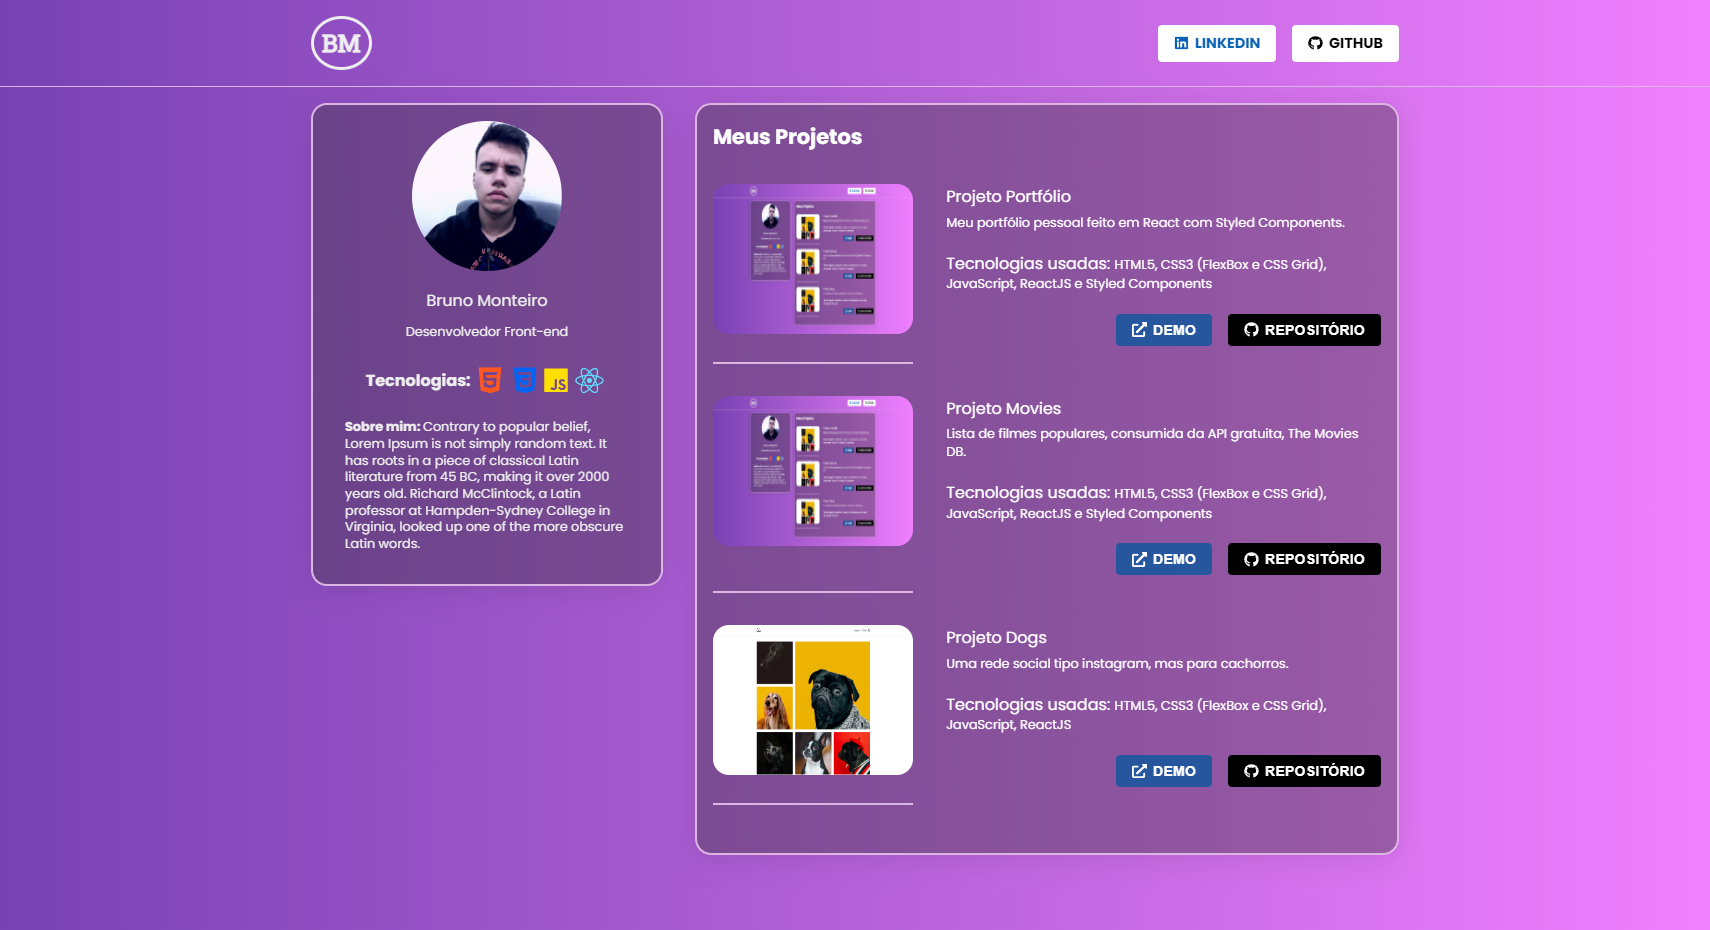
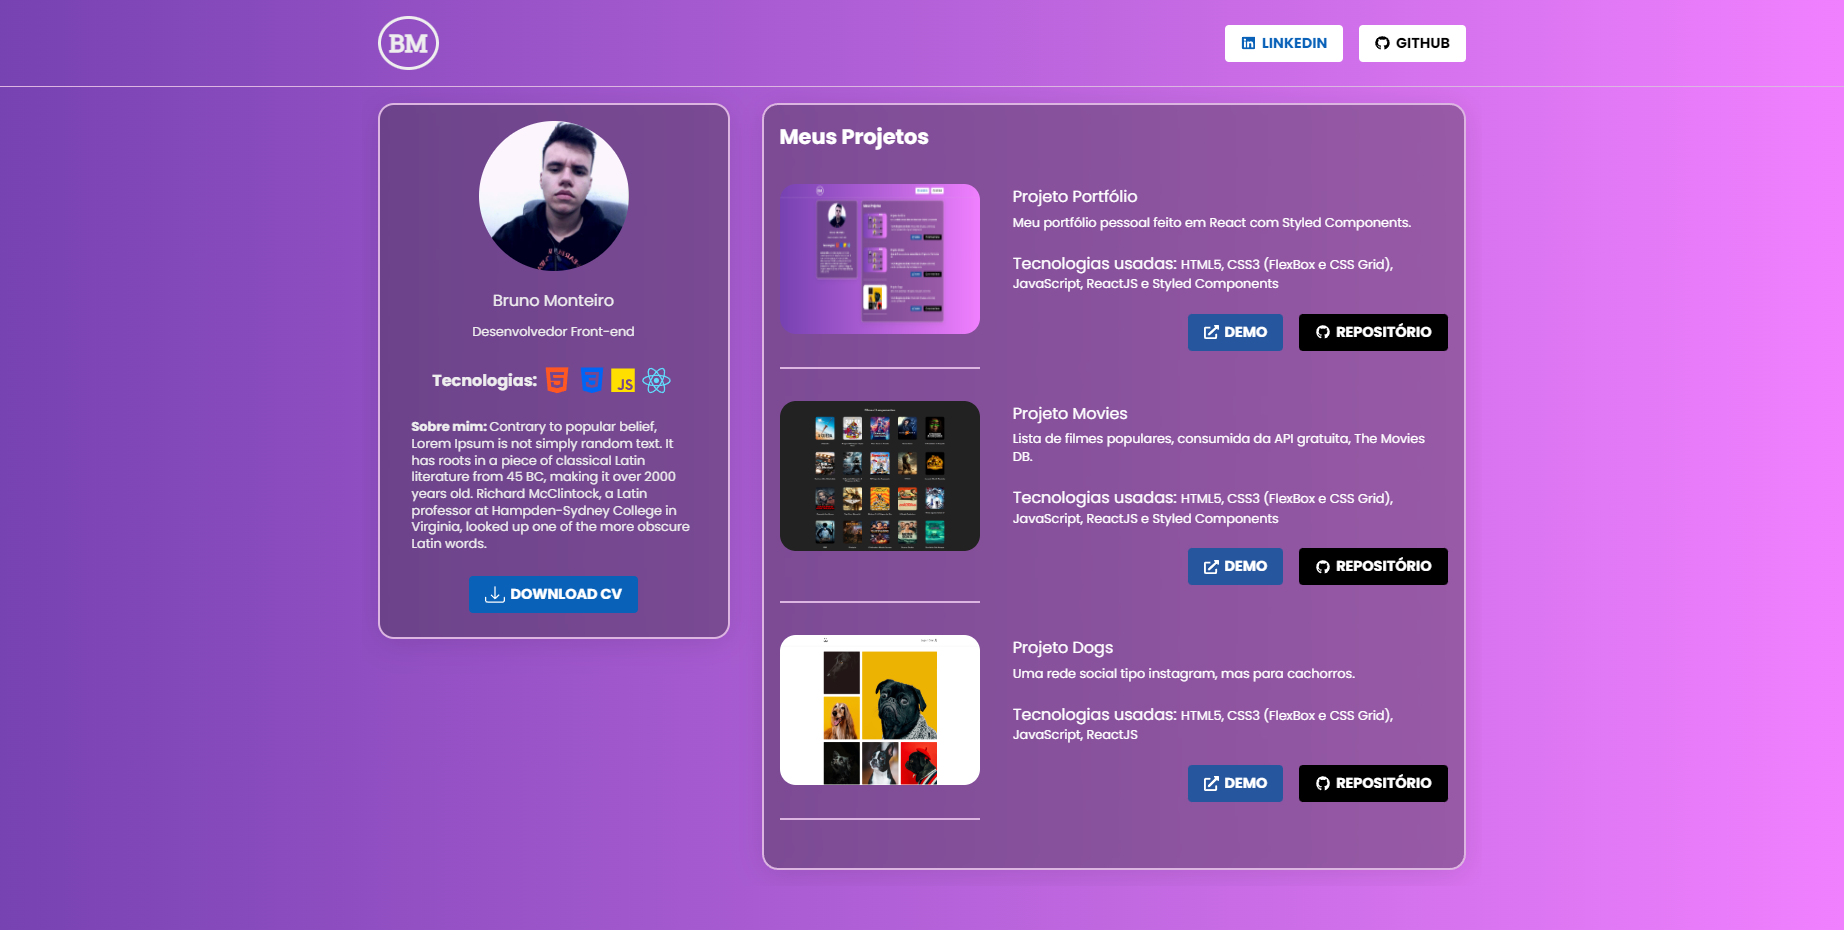
Botão baixar cv

Changed region(s): [[0.155, 0.0, 0.8368, 0.9355], [0.6509, 0.0312, 0.8368, 0.0624]]

diff --git a/src/Components/Projetos/Projetos.js b/src/Components/Projetos/Projetos.js
@@ -26,6 +26,8 @@ const Projetos = () => {
       sobre: 'Meu portfólio pessoal feito em React com Styled Components.',
       tecnologias:
         'HTML5, CSS3 (FlexBox e CSS Grid), JavaScript, ReactJS e Styled Components',
+      botaoDemo: '',
+      botaoGit: 'https://github.com/BrunoMonteiro25/Meu-Portfolio',
     },
     {
       id: 2,
@@ -35,6 +37,8 @@ const Projetos = () => {
         'Lista de filmes populares, consumida da API gratuita, The Movies DB.',
       tecnologias:
         'HTML5, CSS3 (FlexBox e CSS Grid), JavaScript, ReactJS e Styled Components',
+      botaoDemo: '',
+      botaoGit: 'https://github.com/BrunoMonteiro25/api-filmes',
     },
     {
       id: 3,
@@ -42,6 +46,8 @@ const Projetos = () => {
       titulo: 'Projeto Dogs',
       sobre: 'Uma rede social tipo instagram, mas para cachorros.',
       tecnologias: 'HTML5, CSS3 (FlexBox e CSS Grid), JavaScript, ReactJS',
+      botaoDemo: '',
+      botaoGit: 'https://github.com/BrunoMonteiro25/Dogs',
     },
   ]
 
@@ -50,7 +56,7 @@ const Projetos = () => {
       <TituloProjeto>Meus Projetos</TituloProjeto>
       {projetos.map((projeto) => {
         return (
-          <Projeto>
+          <Projeto key={projeto.id}>
             <ContainerImg>
               <img src={projeto.imagem} alt={projeto.titulo} />
             </ContainerImg>
@@ -66,7 +72,7 @@ const Projetos = () => {
                   <FaExternalLinkAlt />
                   Demo
                 </Demo>
-                <Repositorio>
+                <Repositorio href={projeto.botaoGit} target="_blank">
                   <FaGithub />
                   Repositório
                 </Repositorio>

diff --git a/src/Components/CardProfile/CardProfile.js b/src/Components/CardProfile/CardProfile.js
@@ -6,10 +6,13 @@ import {
   Nome,
   Sobre,
   Tecnologias,
+  BaixarCurriculo,
 } from './CardProfileStyled'
 import { DiHtml5, DiCss3, DiJsBadge, DiReact } from 'react-icons/di'
+import { BsDownload } from 'react-icons/bs'
 
 import Foto from '../../../src/Assets/foto.jpg'
+//import Teste from './teste.pdf'
 
 const CardProfile = () => {
   return (
@@ -33,6 +36,10 @@ const CardProfile = () => {
         McClintock, a Latin professor at Hampden-Sydney College in Virginia,
         looked up one of the more obscure Latin words.
       </Sobre>
+      <BaixarCurriculo href="" download="teste.pdf" type="appication/pdf">
+        <BsDownload style={{ fontSize: '1.2rem' }} />
+        Download CV
+      </BaixarCurriculo>
     </Card>
   )
 }

diff --git a/src/Components/CardProfile/CardProfileStyled.js b/src/Components/CardProfile/CardProfileStyled.js
@@ -52,11 +52,35 @@ export const Tecnologias = styled.div`
 `
 
 export const Sobre = styled.p`
-  padding: 0 2rem 2rem 2rem;
+  padding: 0 2rem 1.5rem 2rem;
   line-height: 1.3;
   font-size: 0.8rem;
 
   span {
     font-weight: bold;
+  }
+`
+
+export const BaixarCurriculo = styled.a`
+  display: flex;
+  align-items: center;
+  gap: 0.4rem;
+  font-size: 0.9rem;
+  padding: 0.5rem 1rem;
+  background: #000;
+  border-radius: 4px;
+  text-transform: uppercase;
+  text-decoration: none;
+  color: #fff;
+  font-weight: bold;
+  max-width: max-content;
+  border: none;
+  cursor: pointer;
+  transition: all 0.3s;
+  margin-bottom: 1.5rem;
+
+  :hover {
+    background: #111;
+    transform: scale(1.1);
   }
 `

diff --git a/src/Components/Home/HomeStyled.js b/src/Components/Home/HomeStyled.js
@@ -7,6 +7,7 @@ export const Container = styled.section`
   display: grid;
   grid-template-columns: 1fr 2fr;
   gap: 2rem;
+  overflow: hidden;
 
   @media (max-width: 54rem) {
     grid-template-columns: 1fr;

diff --git a/src/Components/Projetos/ProjetosStyled.js b/src/Components/Projetos/ProjetosStyled.js
@@ -80,7 +80,7 @@ export const Botoes = styled.div`
   margin-top: 1rem;
 `
 
-export const Demo = styled.button`
+export const Demo = styled.a`
   display: flex;
   align-items: center;
   gap: 0.4rem;

diff --git a/src/global.css b/src/global.css
@@ -11,3 +11,6 @@ body {
   color: #eee;
   font-family: 'Poppins', sans-serif;
 }
+
+@media (max-width: 34rem) {
+}
